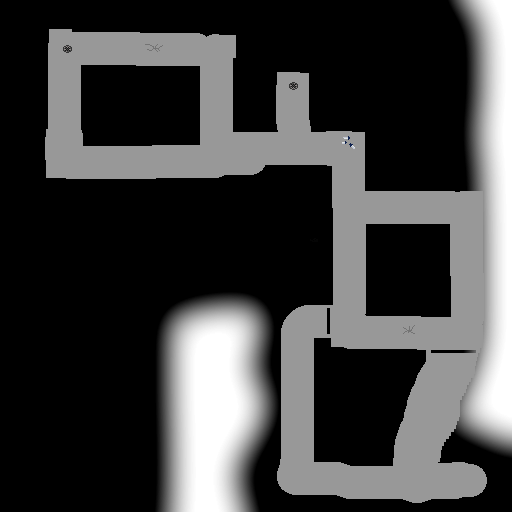
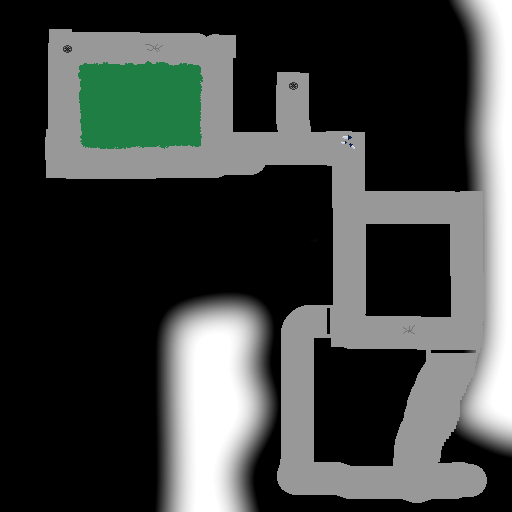
Add: Mouse coord.

Changed region(s): [[0.1562, 0.125, 0.4062, 0.3125]]

diff --git a/www/game.min.js b/www/game.min.js
@@ -1,1 +1,1 @@
-var bgVbo;var bgProgram;var bgMvp;var BG_SIZE=512;function bgInit(){var b=new Float32Array([0,0,0,0,BG_SIZE,0,1,0,0,BG_SIZE,0,1,BG_SIZE,BG_SIZE,1,1,]);bgVbo=gl.createBuffer();gl.bindBuffer(gl.ARRAY_BUFFER,bgVbo);gl.bufferData(gl.ARRAY_BUFFER,b,gl.STATIC_DRAW);bgProgram=new esProgram(gl);bgProgram.addShaderId("bg-fs",ES_FRAGMENT);bgProgram.addShaderId("bg-vs",ES_VERTEX);bgProgram.bindAttribute(0,"pos");bgProgram.link();bgProgram.use();var a=bgProgram.getUniform("mvp");var c=bgProgram.getUniform("tex");bgMvp=esMat4_create();esMat4_ortho(bgMvp,0,512,512,0);gl.uniformMatrix4fv(a,false,bgMvp);gl.uniform1i(c,0)}function bgRender(){bgProgram.use();gl.bindTexture(gl.TEXTURE_2D,texBg);gl.enableVertexAttribArray(0);gl.bindBuffer(gl.ARRAY_BUFFER,bgVbo);gl.vertexAttribPointer(0,4,gl.FLOAT,false,0,0);gl.drawArrays(gl.TRIANGLE_STRIP,0,4);gl.disableVertexAttribArray(0)}var gl;var imgBg;var imgSprites;var imgCsKnife;var imgCsRedWin;var imgCsRedKill;var texBg;var texSprites;var texCsKnife;var texCsRedWin;var texCsRedKill;var frameFunc;var blockMouse;function frameExec(a){if(a>0.3){return}gl.clear(gl.COLOR_BUFFER_BIT);if(frameFunc!=null){frameFunc(a)}spriteFlush()}function makeTexture(b){var a=gl.createTexture();gl.bindTexture(gl.TEXTURE_2D,a);gl.texImage2D(gl.TEXTURE_2D,0,gl.RGBA,gl.RGBA,gl.UNSIGNED_BYTE,b);gl.texParameteri(gl.TEXTURE_2D,gl.TEXTURE_MAG_FILTER,gl.NEAREST);gl.texParameteri(gl.TEXTURE_2D,gl.TEXTURE_MIN_FILTER,gl.NEAREST);assert(a!=null,a);return a}function loaded(){texBg=makeTexture(imgBg);texSprites=makeTexture(imgSprites);texCsKnife=makeTexture(imgCsKnife);texCsRedWin=makeTexture(imgCsRedWin);texCsRedKill=makeTexture(imgCsRedKill);bgInit();spriteInit();nodeInit();aiInit();avatarInit();deathInit();var a=document.getElementById("can");a.addEventListener("mousedown",mouseEvent,false);esNextFrame(frameExec);modePlay()}function main(){frameFunc=null;gl=esInitGl("can");gl.clearColor(0,0,0,1);gl.clear(gl.COLOR_BUFFER_BIT);var a=new esLoad();imgBg=a.loadImage("bg.png");imgSprites=a.loadImage("sprites.png");imgCsKnife=a.loadImage("cs_knife.png");imgCsRedWin=a.loadImage("cs_redwin.png");imgCsRedKill=a.loadImage("cs_redkill.png");a.download(loaded)}function mouseEvent(c){if(blockMouse){return}var a=document.getElementById("can");var b=a.getBoundingClientRect();avatarSetMouse(c.clientX-b.x,c.clientY-b.y)}function modePlay(){blockMouse=false;frameFunc=playFrame}function modeDeath(){blockMouse=true;frameFunc=deathFrame}function assert(a,b){if(!a){alert(b);throw new Error(a,b)}}var avatarWalker;var avatarLastWalkerState;var avatarState;var avatarQueueMouse;var avatarActionX;var avatarActionY;var avatarActionSprite;var avatarAction;var avatarNodeAt;var avatarNodeTravelA;var avatarNodeTravelB;var avatarWeapon;var AV_WAITING=1;var AV_WALKING=2;var WE_NONE=0;var WE_KNIFE=1;var WE_TEXT=["no weapon","knife"];function avatarInit(a){avatarWalker=new NodeWalker(nodePlayerStart,35);avatarLastWalkerState=-1;avatarWeapon=WE_NONE}function avatarFrame(a){if(avatarQueueMouse){avatarMouse()}avatarWalker.frame(a);if(avatarLastWalkerState!=avatarWalker.state){avatarLastWalkerState=avatarWalker.state;avatarUpdateState()}if(!avatarWalker.hidden){if(avatarAction){spriteAdd(avatarActionX,avatarActionY,32,SP_TABLET);spriteAdd(avatarActionX,avatarActionY,32,avatarActionSprite);switch(avatarAction){case ACTION_HIDE_ATTACK:break;default:case ACTION_TELEPORT:spriteAdd(avatarWalker.x,avatarWalker.y,32,SP_PLAYER_SNEAK);break;case ACTION_PICK_KNIFE:spriteAdd(avatarWalker.x,avatarWalker.y,32,SP_PLAYER_IDLE);break}}else{if(avatarState==AV_WALKING){spriteAdd(avatarWalker.x,avatarWalker.y,32,spriteFrame(SP_PLAYER,avatarWalker))}else{if(avatarState==AV_WAITING){spriteAdd(avatarWalker.x,avatarWalker.y,32,SP_PLAYER_IDLE)}}}}spriteAddText(12,500,16,WE_TEXT[avatarWeapon])}function avatarSetMouse(a,b){avatarQueueMouse=[a,b];avatarMouse()}function avatarMouse(){if(avatarState==AV_WAITING){var a=avatarQueueMouse[0];var d=avatarQueueMouse[1];avatarQueueMouse=null;if(avatarAction!=ACTION_NONE&&avatarOnAction(a,d)){switch(avatarAction){case ACTION_PICK_KNIFE:avatarWeapon=WE_KNIFE;break;case ACTION_HIDE_ATTACK:var c=avatarWalker.from.rebase;var b=aiAttack(c.x,c.y,avatarWeapon);avatarWalker.goAction(avatarAction,b);break;default:avatarWalker.goAction(avatarAction)}}else{avatarDirMove(a,d)}}}function avatarUpdateActions(a){avatarAction=a;avatarActionX=avatarWalker.x;avatarActionY=avatarWalker.y+40;switch(a){case ACTION_HIDE:avatarActionSprite=SP_ICON_HIDE;break;case ACTION_HIDE_ATTACK:avatarActionSprite=SP_ICON_HIDE_ATTACK;break;case ACTION_TELEPORT:avatarActionSprite=SP_ICON_TELEPORT;break;case ACTION_PICK_KNIFE:avatarActionSprite=SP_ICON_KNIFE;break}}function avatarUpdateState(){switch(avatarWalker.state){case NW_IDLE:avatarWalker.from.occupied=true;avatarState=AV_WAITING;avatarNodeAt=avatarWalker.from;avatarNodeTravelA=avatarNodeTravelB=null;if(avatarQueueMouse!=null){avatarMouse()}avatarUpdateActions(avatarWalker.from.action);break;case NW_WALKING:avatarWalker.from.occupied=false;avatarState=AV_WALKING;avatarNodeAt=null;avatarNodeTravelA=avatarWalker.from;avatarNodeTravelB=avatarWalker.dest;avatarUpdateActions(0);break}}function avatarDirMove(a,f){var c=avatarWalker.x-a;var b=avatarWalker.y-f;var e=Math.abs(c);var d=Math.abs(b);if(e<16&&d<16){return}if(e>=d){if(c>0){avatarWalker.goEast()}else{avatarWalker.goWest()}}else{if(b>0){avatarWalker.goNorth()}else{avatarWalker.goSouth()}}}function avatarOnAction(a,d){var c=Math.abs(a-avatarActionX);var b=Math.abs(d-avatarActionY);return c<16&&b<16}var aiList;var aiWave=0;var AI_RAND=16;var CAUGHT_RAD=16;var AIMSG_RED_WIN;var AIMSG_RED_LOSE;function aiInit(){AIMSG_RED_WIN=[texCsRedWin,"you got caught",null];AIMSG_RED_LOSE=[texCsRedKill,"take that",null];aiWave=0;aiRespawnWave()}function aiFrame(b){for(var a=0;a<aiList.length;a++){aiList[a].frame(b)}}function aiRespawnWave(){aiList=[];switch(aiWave){case 0:spawnRed();spawnRed();spawnRed();break}}function spawnRed(){aiList.push(new Ai(nodeAiStart0,SP_AI_RED,AIMSG_RED_WIN,AIMSG_RED_LOSE,WE_KNIFE))}function aiAttack(a,d,c){for(var b=0;b<aiList.length;b++){if(aiList[b].caught(a,d)){switch(c){default:case WE_NONE:break;case WE_KNIFE:deathQueue(texCsKnife,"thrust",1,null);break}if(aiList[b].voln==c){deathQueue(aiList[b].killMsg[0],aiList[b].killMsg[1],1,aiList[b].killMsg[2]);aiList.splice(b,1);modeDeath();return true}else{aiList[b].attack=true;aiList[b].speed=aiList[b].orgSpeed*3}}}return false}function Ai(d,e,c,b,a){this.attack=false;this.voln=a;this.orgSpeed=20+Math.random()*15;this.walker=new NodeWalker(d,this.orgSpeed);this.offsetX=(Math.random()-0.5)*AI_RAND;this.offsetY=(Math.random()-0.5)*AI_RAND;this.walker.goRandom();this.spriteBase=e;this.winMsg=c;this.killMsg=b}Ai.prototype.frame=function(d){if(this.walker.state==NW_IDLE){this.planTravel()}this.walker.frame(d);var b=this.walker.animation+this.walker.animationBase;var a=[this.spriteBase[0]+b,this.spriteBase[1]];var c=this.walker.animation;spriteAdd(Math.floor(this.walker.x+this.offsetX),Math.floor(this.walker.y+this.offsetY)+c,24,a);if(this.attack&&this.caughtPlayer()){deathQueue(this.winMsg[0],this.winMsg[1],3,this.winMsg[2]);modeDeath();deathReborn()}};Ai.prototype.planTravel=function(){if(this.isSeePlayer()){this.walker.speed=this.orgSpeed*2;this.attack=true;var a=avatarNodeAt;if(a==null){a=avatarNodeTravelB}this.walker.travel(a)}else{this.walker.speed=this.orgSpeed;this.attack=false;this.walker.goRandom()}};Ai.prototype.caught=function(a,d){var c=Math.abs(this.walker.x-a);var b=Math.abs(this.walker.y-d);return c<CAUGHT_RAD&&b<CAUGHT_RAD};Ai.prototype.caughtPlayer=function(){if(avatarWalker.hidden){return false}return this.caught(avatarWalker.x,avatarWalker.y)};Ai.prototype.isSeePlayer=function(){if(this.walker.from.equals(avatarNodeAt)){return true}if(isAvatarTravel(this.walker.from,this.walker.from.west)){return true}if(isAvatarTravel(this.walker.from,this.walker.from.east)){return true}if(isAvatarTravel(this.walker.from,this.walker.from.north)){return true}if(isAvatarTravel(this.walker.from,this.walker.from.south)){return true}return false};function isAvatarTravel(d,c){if(c==null){return false}if(d.equals(avatarNodeTravelA)&&c.equals(avatarNodeTravelB)){return true}if(d.equals(avatarNodeTravelB)&&c.equals(avatarNodeTravelA)){return true}if(avatarNodeAt!=null&&avatarNodeAt.equals(c)){return true}return false}var spriteList;var spriteCount;var spriteVbo;var spriteProgram;var SPRITE_MAX=100;var SPRITE_COMPS=5;var SPRITE_COMPS_SIZE=SPRITE_COMPS*4;var SPRITE_DIM=16;var SP_NODE=[0,0];var SP_CROSS=[1,0];var SP_BOX_FREE=[1,0];var SP_BOX_TAKEN=[2,0];var SP_PLAYER_IDLE=[8,1];var SP_PLAYER_SNEAK=[9,1];var SP_TABLET=[3,0];var SP_ICON_HIDE=[4,0];var SP_ICON_HIDE_ATTACK=[5,0];var SP_ICON_TELEPORT=[6,0];var SP_ICON_KNIFE=[7,0];var SP_PLAYER=[0,1];var SP_AI_RED=[0,2];function spriteInit(){spriteCount=0;spriteList=new Float32Array(SPRITE_MAX*SPRITE_COMPS);spriteList[0]=0.5;spriteVbo=gl.createBuffer();gl.bindBuffer(gl.ARRAY_BUFFER,spriteVbo);gl.bufferData(gl.ARRAY_BUFFER,spriteList,gl.DYNAMIC_DRAW);spriteProgram=new esProgram(gl);spriteProgram.addShaderId("sprite-fs",ES_FRAGMENT);spriteProgram.addShaderId("sprite-vs",ES_VERTEX);spriteProgram.bindAttribute(0,"pos");spriteProgram.bindAttribute(1,"uv");spriteProgram.bindAttribute(2,"size");spriteProgram.link();spriteProgram.use();var b=spriteProgram.getUniform("tex");var a=spriteProgram.getUniform("mvp");gl.uniform1i(b,0);gl.uniformMatrix4fv(a,false,bgMvp)}function spriteAdd(a,e,c,b){if(spriteCount>=SPRITE_MAX){return}var d=SPRITE_COMPS*spriteCount;spriteList[d+0]=a;spriteList[d+1]=e;spriteList[d+2]=b[0];spriteList[d+3]=b[1];spriteList[d+4]=c;spriteCount++}function spriteAddText(g,f,j,h){var e="a".charCodeAt(0);var d="q".charCodeAt(0);for(var c=0;c<h.length;c++){var b=h.charCodeAt(c);var a=b-e;if(a>=0&&a<16){spriteAdd(g,f,j,[a,14])}var a=b-d;if(a>=0&&a<16){spriteAdd(g,f,j,[a,15])}g+=j}}function spriteFlush(){if(spriteCount<=0){return}gl.bindBuffer(gl.ARRAY_BUFFER,spriteVbo);gl.bufferSubData(gl.ARRAY_BUFFER,0,spriteList.subarray(0,spriteCount*SPRITE_COMPS));spriteProgram.use();gl.bindTexture(gl.TEXTURE_2D,texSprites);gl.enableVertexAttribArray(0);gl.enableVertexAttribArray(1);gl.enableVertexAttribArray(2);gl.vertexAttribPointer(0,2,gl.FLOAT,false,SPRITE_COMPS_SIZE,0);gl.vertexAttribPointer(1,2,gl.FLOAT,false,SPRITE_COMPS_SIZE,8);gl.vertexAttribPointer(2,1,gl.FLOAT,false,SPRITE_COMPS_SIZE,16);gl.drawArrays(gl.POINTS,0,spriteCount);gl.disableVertexAttribArray(0);gl.disableVertexAttribArray(1);gl.disableVertexAttribArray(2);spriteCount=0}function spriteFrame(b,c){var a=b[0]+c.animationBase+c.animation;return[a,b[1]]}var nodeList;var NW_IDLE=0;var NW_WALKING=1;var ACTION_NONE=0;var ACTION_HIDE=1;var ACTION_HIDE_ATTACK=2;var ACTION_TELEPORT=3;var ACTION_PICK_KNIFE=4;var nodeAiStart0;var nodePlayerStart;function nodeInit(){nodeList=[];var d=packNode(67,49,ACTION_TELEPORT);var c=packNode(215,53);var b=packNode(62,161);var a=packNode(218,153);var i=packNode(153,48,ACTION_HIDE);var g=packNode(153,31,ACTION_HIDE_ATTACK);var o=packNode(293,148);var n=packNode(346,150,ACTION_PICK_KNIFE);var m=packNode(293,86,ACTION_TELEPORT);var l=packNode(350,207);var k=packNode(465,210);var j=packNode(347,324);var f=packNode(408,330,ACTION_HIDE);var e=packNode(404,314,ACTION_HIDE_ATTACK);var h=packNode(462,331);d.linkWest(i);i.linkWest(c);i.linkHide(g);d.linkSouth(b);b.linkWest(a);c.linkSouth(a);a.linkWest(o);m.linkSouth(o);o.linkWest(n);n.linkSouth(l);l.linkWest(k);l.linkSouth(j);j.linkWest(f);f.linkHide(e);f.linkWest(h);k.linkSouth(h);m.linkTeleport(d);d.linkTeleport(m);nodeAiStart0=c;nodePlayerStart=k}function nodeRender(){for(var a=0;a<nodeList.length;a++){nodeList[a].render()}}function packNode(a,d,c){var b=new Node(a,d,!c?0:c);nodeList.push(b);return b}function NodeWalker(b,a){this.speed=a;this.x=b.x;this.y=b.y;this.from=b;this.dest=null;this.last=null;this.state=NW_IDLE;this.travelDist=0;this.travelDirX=0;this.travelDirY=0;this.travelSpeed=0;this.hidden=false;this.animationBase=0;this.animation=0}NodeWalker.prototype.frame=function(a){switch(this.state){case NW_WALKING:this.travelDist-=a*this.travelSpeed;this.x+=this.travelDirX*a*this.travelSpeed;this.y+=this.travelDirY*a*this.travelSpeed;this.animation=((Math.floor(this.travelDist)>>4)&1);if(this.travelDist<=0){this.x=this.dest.x;this.y=this.dest.y;this.state=NW_IDLE;this.travelDist=0;this.from=this.dest;this.dest=null;this.hidden=false}break}};NodeWalker.prototype.travel=function(f,e){var b=this.from.x-f.x;var a=this.from.y-f.y;var d=Math.abs(b);var c=Math.abs(a);if(d>c){if(b>0){this.animationBase=0}else{this.animationBase=2}}else{if(a>0){this.animationBase=6}else{this.animationBase=4}}this.dest=f;this.state=NW_WALKING;this.last=this.from;var b=f.x-this.from.x;var a=f.y-this.from.y;this.travelDist=Math.sqrt(b*b+a*a);this.travelDirX=b/this.travelDist;this.travelDirY=a/this.travelDist;this.travelSpeed=this.speed;if(e>0){this.travelSpeed*=e}};function shouldGo(c,a,b){if(a!=null&&(c.last==null||!a.equals(c.last))){b.push(a)}}Node.prototype.equals=function(a){if(a==null||this==null){return false}return this.x==a.x&&this.y==a.y};NodeWalker.prototype.goRandom=function(){var a=[];shouldGo(this,this.from.west,a);shouldGo(this,this.from.east,a);shouldGo(this,this.from.south,a);shouldGo(this,this.from.north,a);if(a.length<=0){if(this.from.west!=null){a.push(this.from.west)}if(this.from.east!=null){a.push(this.from.east)}if(this.from.south!=null){a.push(this.from.south)}if(this.from.north!=null){a.push(this.from.north)}}this.travel(a[Math.floor(Math.random()*a.length)])};function goConditional(b,a){if(a!=null){b.travel(a)}else{if(b.from.rebase!=null){b.travel(b.from.rebase)}}}NodeWalker.prototype.goWest=function(){goConditional(this,this.from.west)};NodeWalker.prototype.goEast=function(){goConditional(this,this.from.east)};NodeWalker.prototype.goSouth=function(){goConditional(this,this.from.south)};NodeWalker.prototype.goNorth=function(){goConditional(this,this.from.north)};NodeWalker.prototype.goAction=function(b,a){switch(b){case ACTION_HIDE:this.hidden=a==true;this.travel(this.from.hide,this.hidden?5:1);break;case ACTION_TELEPORT:this.hidden=true;this.travel(this.from.teleport,5);break;default:this.hidden=false||a==true;this.travel(this.from.rebase);break}};function Node(a,c,b){this.x=a;this.y=c;this.action=b;this.occupied=false;this.east=this.west=this.north=this.south=null;this.rebase=this.hide=this.teleport=null}Node.prototype.renderSprite=function(a){spriteAdd(this.x,this.y,32,a)};Node.prototype.render=function(){switch(this.action){case ACTION_HIDE_ATTACK:this.renderSprite(this.occupied?SP_BOX_TAKEN:SP_BOX_FREE);break;default:}};Node.prototype.linkWest=function(a){this.west=a;a.east=this};Node.prototype.linkSouth=function(a){this.south=a;a.north=this};Node.prototype.linkHide=function(a){this.hide=a;a.rebase=this};Node.prototype.linkTeleport=function(a){this.teleport=a};var deathQ;var deathTexture;var deathText;var deathDuration;var deathProgram;var deathVbo;var deathUniTex;function deathInit(){deathQ=[];deathDuration=0;var a=new Float32Array([0,0,0,1,1,0,1,1,0,1,0,0,1,1,1,0]);deathVbo=gl.createBuffer();gl.bindBuffer(gl.ARRAY_BUFFER,deathVbo);gl.bufferData(gl.ARRAY_BUFFER,a,gl.STATIC_DRAW);deathProgram=new esProgram(gl);deathProgram.addShaderId("death-fs",ES_FRAGMENT);deathProgram.addShaderId("death-vs",ES_VERTEX);deathProgram.bindAttribute(0,"pos");deathProgram.link();deathProgram.use();deathUniTex=deathProgram.getUniform("tex");gl.uniform1i(deathUniTex,0)}function deathReborn(){avatarInit(nodePlayerStart);aiRespawnWave()}function deathQueue(a,d,c,b){deathQ.push([a,d,c])}function deathFrame(d){if(deathDuration<=0){if(deathQ.length<=0){modePlay()}else{var a=deathQ.shift();deathTexture=a[0];deathText=a[1];deathDuration=a[2];var c=a[3]}}deathProgram.use();gl.bindTexture(gl.TEXTURE_2D,deathTexture);gl.enableVertexAttribArray(0);gl.bindBuffer(gl.ARRAY_BUFFER,deathVbo);gl.vertexAttribPointer(0,4,gl.FLOAT,false,0,0);gl.drawArrays(gl.TRIANGLE_STRIP,0,4);gl.disableVertexAttribArray(0);var b=256-((deathText.length/2)-0.5)*32;spriteAddText(b,400,32,deathText);deathDuration-=d}function playFrame(a){bgRender();nodeRender();avatarFrame(a);aiFrame(a)};
+var bgVbo;var bgProgram;var bgMvp;var BG_SIZE=512;function bgInit(){var b=new Float32Array([0,0,0,0,BG_SIZE,0,1,0,0,BG_SIZE,0,1,BG_SIZE,BG_SIZE,1,1,]);bgVbo=gl.createBuffer();gl.bindBuffer(gl.ARRAY_BUFFER,bgVbo);gl.bufferData(gl.ARRAY_BUFFER,b,gl.STATIC_DRAW);bgProgram=new esProgram(gl);bgProgram.addShaderId("bg-fs",ES_FRAGMENT);bgProgram.addShaderId("bg-vs",ES_VERTEX);bgProgram.bindAttribute(0,"pos");bgProgram.link();bgProgram.use();var a=bgProgram.getUniform("mvp");var c=bgProgram.getUniform("tex");bgMvp=esMat4_create();esMat4_ortho(bgMvp,0,512,512,0);gl.uniformMatrix4fv(a,false,bgMvp);gl.uniform1i(c,0)}function bgRenderPre(){bgProgram.use();gl.bindTexture(gl.TEXTURE_2D,texBg);gl.enableVertexAttribArray(0);gl.bindBuffer(gl.ARRAY_BUFFER,bgVbo);gl.vertexAttribPointer(0,4,gl.FLOAT,false,0,0);gl.drawArrays(gl.TRIANGLE_STRIP,0,4);gl.disableVertexAttribArray(0)}function bgRenderPost(){spriteAdd(95,63,32,SP_BRUSH0);spriteAdd(130,69,32,SP_BRUSH0)}var gl;var imgBg;var imgSprites;var imgCsKnife;var imgCsRedWin;var imgCsRedKill;var texBg;var texSprites;var texCsKnife;var texCsRedWin;var texCsRedKill;var frameFunc;var blockMouse;function frameExec(a){if(a>0.3){return}gl.clear(gl.COLOR_BUFFER_BIT);if(frameFunc!=null){frameFunc(a)}spriteFlush()}function makeTexture(b){var a=gl.createTexture();gl.bindTexture(gl.TEXTURE_2D,a);gl.texImage2D(gl.TEXTURE_2D,0,gl.RGBA,gl.RGBA,gl.UNSIGNED_BYTE,b);gl.texParameteri(gl.TEXTURE_2D,gl.TEXTURE_MAG_FILTER,gl.NEAREST);gl.texParameteri(gl.TEXTURE_2D,gl.TEXTURE_MIN_FILTER,gl.NEAREST);assert(a!=null,a);return a}function loaded(){texBg=makeTexture(imgBg);texSprites=makeTexture(imgSprites);texCsKnife=makeTexture(imgCsKnife);texCsRedWin=makeTexture(imgCsRedWin);texCsRedKill=makeTexture(imgCsRedKill);bgInit();spriteInit();nodeInit();aiInit();avatarInit();deathInit();var a=document.getElementById("can");a.addEventListener("mousedown",mouseEvent,false);esNextFrame(frameExec);modePlay()}function main(){frameFunc=null;gl=esInitGl("can");gl.clearColor(0,0,0,1);gl.clear(gl.COLOR_BUFFER_BIT);var a=new esLoad();imgBg=a.loadImage("bg.png");imgSprites=a.loadImage("sprites.png");imgCsKnife=a.loadImage("cs_knife.png");imgCsRedWin=a.loadImage("cs_redwin.png");imgCsRedKill=a.loadImage("cs_redkill.png");a.download(loaded)}function mouseEvent(d){if(blockMouse){return}var b=document.getElementById("can");var c=b.getBoundingClientRect();var a=d.clientX-c.x;var e=d.clientY-c.y;console.log(d,c,a,e);avatarSetMouse(a,e)}function modePlay(){blockMouse=false;frameFunc=playFrame}function modeDeath(){blockMouse=true;frameFunc=deathFrame}function assert(a,b){if(!a){alert(b);throw new Error(a,b)}}var avatarWalker;var avatarLastWalkerState;var avatarState;var avatarQueueMouse;var avatarActionX;var avatarActionY;var avatarActionSprite;var avatarAction;var avatarNodeAt;var avatarNodeTravelA;var avatarNodeTravelB;var avatarWeapon;var AV_WAITING=1;var AV_WALKING=2;var WE_NONE=0;var WE_KNIFE=1;var WE_TEXT=["no weapon","knife"];function avatarInit(a){avatarWalker=new NodeWalker(nodePlayerStart,35);avatarLastWalkerState=-1;avatarWeapon=WE_NONE}function avatarFrame(a){if(avatarQueueMouse){avatarMouse()}avatarWalker.frame(a);if(avatarLastWalkerState!=avatarWalker.state){avatarLastWalkerState=avatarWalker.state;avatarUpdateState()}if(!avatarWalker.hidden){if(avatarAction){spriteAdd(avatarActionX,avatarActionY,32,SP_TABLET);spriteAdd(avatarActionX,avatarActionY,32,avatarActionSprite);switch(avatarAction){case ACTION_HIDE_ATTACK:break;default:case ACTION_TELEPORT:spriteAdd(avatarWalker.x,avatarWalker.y,32,SP_PLAYER_SNEAK);break;case ACTION_PICK_KNIFE:spriteAdd(avatarWalker.x,avatarWalker.y,32,SP_PLAYER_IDLE);break}}else{if(avatarState==AV_WALKING){spriteAdd(avatarWalker.x,avatarWalker.y,32,spriteFrame(SP_PLAYER,avatarWalker))}else{if(avatarState==AV_WAITING){spriteAdd(avatarWalker.x,avatarWalker.y,32,SP_PLAYER_IDLE)}}}}spriteAddText(12,500,16,WE_TEXT[avatarWeapon])}function avatarSetMouse(a,b){avatarQueueMouse=[a,b];avatarMouse()}function avatarMouse(){if(avatarState==AV_WAITING){var a=avatarQueueMouse[0];var d=avatarQueueMouse[1];avatarQueueMouse=null;if(avatarAction!=ACTION_NONE&&avatarOnAction(a,d)){switch(avatarAction){case ACTION_PICK_KNIFE:avatarWeapon=WE_KNIFE;break;case ACTION_HIDE_ATTACK:var c=avatarWalker.from.rebase;var b=aiAttack(c.x,c.y,avatarWeapon);avatarWalker.goAction(avatarAction,b);break;default:avatarWalker.goAction(avatarAction)}}else{avatarDirMove(a,d)}}}function avatarUpdateActions(a){avatarAction=a;avatarActionX=avatarWalker.x;avatarActionY=avatarWalker.y+40;switch(a){case ACTION_HIDE:avatarActionSprite=SP_ICON_HIDE;break;case ACTION_HIDE_ATTACK:avatarActionSprite=SP_ICON_HIDE_ATTACK;break;case ACTION_TELEPORT:avatarActionSprite=SP_ICON_TELEPORT;break;case ACTION_PICK_KNIFE:avatarActionSprite=SP_ICON_KNIFE;break}}function avatarUpdateState(){switch(avatarWalker.state){case NW_IDLE:avatarWalker.from.occupied=true;avatarState=AV_WAITING;avatarNodeAt=avatarWalker.from;avatarNodeTravelA=avatarNodeTravelB=null;if(avatarQueueMouse!=null){avatarMouse()}avatarUpdateActions(avatarWalker.from.action);break;case NW_WALKING:avatarWalker.from.occupied=false;avatarState=AV_WALKING;avatarNodeAt=null;avatarNodeTravelA=avatarWalker.from;avatarNodeTravelB=avatarWalker.dest;avatarUpdateActions(0);break}}function avatarDirMove(a,f){var c=avatarWalker.x-a;var b=avatarWalker.y-f;var e=Math.abs(c);var d=Math.abs(b);if(e<16&&d<16){return}if(e>=d){if(c>0){avatarWalker.goEast()}else{avatarWalker.goWest()}}else{if(b>0){avatarWalker.goNorth()}else{avatarWalker.goSouth()}}}function avatarOnAction(a,d){var c=Math.abs(a-avatarActionX);var b=Math.abs(d-avatarActionY);return c<16&&b<16}var aiList;var aiWave=0;var AI_RAND=16;var CAUGHT_RAD=16;var AIMSG_RED_WIN;var AIMSG_RED_LOSE;function aiInit(){AIMSG_RED_WIN=[texCsRedWin,"you got caught",null];AIMSG_RED_LOSE=[texCsRedKill,"take that",null];aiWave=0;aiRespawnWave()}function aiFrame(b){for(var a=0;a<aiList.length;a++){aiList[a].frame(b)}}function aiRespawnWave(){aiList=[];switch(aiWave){case 0:spawnRed();spawnRed();spawnRed();break}}function spawnRed(){aiList.push(new Ai(nodeAiStart0,SP_AI_RED,AIMSG_RED_WIN,AIMSG_RED_LOSE,WE_KNIFE))}function aiAttack(a,d,c){for(var b=0;b<aiList.length;b++){if(aiList[b].caught(a,d)){switch(c){default:case WE_NONE:break;case WE_KNIFE:deathQueue(texCsKnife,"thrust",1,null);break}if(aiList[b].voln==c){deathQueue(aiList[b].killMsg[0],aiList[b].killMsg[1],1,aiList[b].killMsg[2]);aiList.splice(b,1);modeDeath();return true}else{aiList[b].attack=true;aiList[b].speed=aiList[b].orgSpeed*3}}}return false}function Ai(d,e,c,b,a){this.attack=false;this.voln=a;this.orgSpeed=20+Math.random()*15;this.walker=new NodeWalker(d,this.orgSpeed);this.offsetX=(Math.random()-0.5)*AI_RAND;this.offsetY=(Math.random()-0.5)*AI_RAND;this.walker.goRandom();this.spriteBase=e;this.winMsg=c;this.killMsg=b}Ai.prototype.frame=function(d){if(this.walker.state==NW_IDLE){this.planTravel()}this.walker.frame(d);var b=this.walker.animation+this.walker.animationBase;var a=[this.spriteBase[0]+b,this.spriteBase[1]];var c=this.walker.animation;spriteAdd(Math.floor(this.walker.x+this.offsetX),Math.floor(this.walker.y+this.offsetY)+c,24,a);if(this.attack&&this.caughtPlayer()){deathQueue(this.winMsg[0],this.winMsg[1],3,this.winMsg[2]);modeDeath();deathReborn()}};Ai.prototype.planTravel=function(){if(this.isSeePlayer()){this.walker.speed=this.orgSpeed*2;this.attack=true;var a=avatarNodeAt;if(a==null){a=avatarNodeTravelB}this.walker.travel(a)}else{this.walker.speed=this.orgSpeed;this.attack=false;this.walker.goRandom()}};Ai.prototype.caught=function(a,d){var c=Math.abs(this.walker.x-a);var b=Math.abs(this.walker.y-d);return c<CAUGHT_RAD&&b<CAUGHT_RAD};Ai.prototype.caughtPlayer=function(){if(avatarWalker.hidden){return false}return this.caught(avatarWalker.x,avatarWalker.y)};Ai.prototype.isSeePlayer=function(){if(this.walker.from.equals(avatarNodeAt)){return true}if(isAvatarTravel(this.walker.from,this.walker.from.west)){return true}if(isAvatarTravel(this.walker.from,this.walker.from.east)){return true}if(isAvatarTravel(this.walker.from,this.walker.from.north)){return true}if(isAvatarTravel(this.walker.from,this.walker.from.south)){return true}return false};function isAvatarTravel(d,c){if(c==null){return false}if(d.equals(avatarNodeTravelA)&&c.equals(avatarNodeTravelB)){return true}if(d.equals(avatarNodeTravelB)&&c.equals(avatarNodeTravelA)){return true}if(avatarNodeAt!=null&&avatarNodeAt.equals(c)){return true}return false}var spriteList;var spriteCount;var spriteVbo;var spriteProgram;var SPRITE_MAX=100;var SPRITE_COMPS=5;var SPRITE_COMPS_SIZE=SPRITE_COMPS*4;var SPRITE_DIM=16;var SP_NODE=[0,0];var SP_CROSS=[1,0];var SP_BOX_FREE=[1,0];var SP_BOX_TAKEN=[2,0];var SP_PLAYER_IDLE=[8,1];var SP_PLAYER_SNEAK=[9,1];var SP_TABLET=[3,0];var SP_ICON_HIDE=[4,0];var SP_ICON_HIDE_ATTACK=[5,0];var SP_ICON_TELEPORT=[6,0];var SP_ICON_KNIFE=[7,0];var SP_BRUSH0=[0,11];var SP_PLAYER=[0,1];var SP_AI_RED=[0,2];function spriteInit(){spriteCount=0;spriteList=new Float32Array(SPRITE_MAX*SPRITE_COMPS);spriteList[0]=0.5;spriteVbo=gl.createBuffer();gl.bindBuffer(gl.ARRAY_BUFFER,spriteVbo);gl.bufferData(gl.ARRAY_BUFFER,spriteList,gl.DYNAMIC_DRAW);spriteProgram=new esProgram(gl);spriteProgram.addShaderId("sprite-fs",ES_FRAGMENT);spriteProgram.addShaderId("sprite-vs",ES_VERTEX);spriteProgram.bindAttribute(0,"pos");spriteProgram.bindAttribute(1,"uv");spriteProgram.bindAttribute(2,"size");spriteProgram.link();spriteProgram.use();var b=spriteProgram.getUniform("tex");var a=spriteProgram.getUniform("mvp");gl.uniform1i(b,0);gl.uniformMatrix4fv(a,false,bgMvp)}function spriteAdd(a,e,c,b){if(spriteCount>=SPRITE_MAX){return}var d=SPRITE_COMPS*spriteCount;spriteList[d+0]=a;spriteList[d+1]=e;spriteList[d+2]=b[0];spriteList[d+3]=b[1];spriteList[d+4]=c;spriteCount++}function spriteAddText(g,f,j,h){var e="a".charCodeAt(0);var d="q".charCodeAt(0);for(var c=0;c<h.length;c++){var b=h.charCodeAt(c);var a=b-e;if(a>=0&&a<16){spriteAdd(g,f,j,[a,14])}var a=b-d;if(a>=0&&a<16){spriteAdd(g,f,j,[a,15])}g+=j}}function spriteFlush(){if(spriteCount<=0){return}gl.bindBuffer(gl.ARRAY_BUFFER,spriteVbo);gl.bufferSubData(gl.ARRAY_BUFFER,0,spriteList.subarray(0,spriteCount*SPRITE_COMPS));spriteProgram.use();gl.bindTexture(gl.TEXTURE_2D,texSprites);gl.enableVertexAttribArray(0);gl.enableVertexAttribArray(1);gl.enableVertexAttribArray(2);gl.vertexAttribPointer(0,2,gl.FLOAT,false,SPRITE_COMPS_SIZE,0);gl.vertexAttribPointer(1,2,gl.FLOAT,false,SPRITE_COMPS_SIZE,8);gl.vertexAttribPointer(2,1,gl.FLOAT,false,SPRITE_COMPS_SIZE,16);gl.drawArrays(gl.POINTS,0,spriteCount);gl.disableVertexAttribArray(0);gl.disableVertexAttribArray(1);gl.disableVertexAttribArray(2);spriteCount=0}function spriteFrame(b,c){var a=b[0]+c.animationBase+c.animation;return[a,b[1]]}var nodeList;var NW_IDLE=0;var NW_WALKING=1;var ACTION_NONE=0;var ACTION_HIDE=1;var ACTION_HIDE_ATTACK=2;var ACTION_TELEPORT=3;var ACTION_PICK_KNIFE=4;var nodeAiStart0;var nodePlayerStart;function nodeInit(){nodeList=[];var d=packNode(67,49,ACTION_TELEPORT);var c=packNode(215,53);var b=packNode(62,161);var a=packNode(218,153);var i=packNode(153,48,ACTION_HIDE);var g=packNode(153,31,ACTION_HIDE_ATTACK);var o=packNode(293,148);var n=packNode(346,150,ACTION_PICK_KNIFE);var m=packNode(293,86,ACTION_TELEPORT);var l=packNode(350,207);var k=packNode(465,210);var j=packNode(347,324);var f=packNode(408,330,ACTION_HIDE);var e=packNode(404,314,ACTION_HIDE_ATTACK);var h=packNode(462,331);d.linkWest(i);i.linkWest(c);i.linkHide(g);d.linkSouth(b);b.linkWest(a);c.linkSouth(a);a.linkWest(o);m.linkSouth(o);o.linkWest(n);n.linkSouth(l);l.linkWest(k);l.linkSouth(j);j.linkWest(f);f.linkHide(e);f.linkWest(h);k.linkSouth(h);m.linkTeleport(d);d.linkTeleport(m);nodeAiStart0=c;nodePlayerStart=k}function nodeRender(){for(var a=0;a<nodeList.length;a++){nodeList[a].render()}}function packNode(a,d,c){var b=new Node(a,d,!c?0:c);nodeList.push(b);return b}function NodeWalker(b,a){this.speed=a;this.x=b.x;this.y=b.y;this.from=b;this.dest=null;this.last=null;this.state=NW_IDLE;this.travelDist=0;this.travelDirX=0;this.travelDirY=0;this.travelSpeed=0;this.hidden=false;this.animationBase=0;this.animation=0}NodeWalker.prototype.frame=function(a){switch(this.state){case NW_WALKING:this.travelDist-=a*this.travelSpeed;this.x+=this.travelDirX*a*this.travelSpeed;this.y+=this.travelDirY*a*this.travelSpeed;this.animation=((Math.floor(this.travelDist)>>4)&1);if(this.travelDist<=0){this.x=this.dest.x;this.y=this.dest.y;this.state=NW_IDLE;this.travelDist=0;this.from=this.dest;this.dest=null;this.hidden=false}break}};NodeWalker.prototype.travel=function(f,e){var b=this.from.x-f.x;var a=this.from.y-f.y;var d=Math.abs(b);var c=Math.abs(a);if(d>c){if(b>0){this.animationBase=0}else{this.animationBase=2}}else{if(a>0){this.animationBase=6}else{this.animationBase=4}}this.dest=f;this.state=NW_WALKING;this.last=this.from;var b=f.x-this.from.x;var a=f.y-this.from.y;this.travelDist=Math.sqrt(b*b+a*a);this.travelDirX=b/this.travelDist;this.travelDirY=a/this.travelDist;this.travelSpeed=this.speed;if(e>0){this.travelSpeed*=e}};function shouldGo(c,a,b){if(a!=null&&(c.last==null||!a.equals(c.last))){b.push(a)}}Node.prototype.equals=function(a){if(a==null||this==null){return false}return this.x==a.x&&this.y==a.y};NodeWalker.prototype.goRandom=function(){var a=[];shouldGo(this,this.from.west,a);shouldGo(this,this.from.east,a);shouldGo(this,this.from.south,a);shouldGo(this,this.from.north,a);if(a.length<=0){if(this.from.west!=null){a.push(this.from.west)}if(this.from.east!=null){a.push(this.from.east)}if(this.from.south!=null){a.push(this.from.south)}if(this.from.north!=null){a.push(this.from.north)}}this.travel(a[Math.floor(Math.random()*a.length)])};function goConditional(b,a){if(a!=null){b.travel(a)}else{if(b.from.rebase!=null){b.travel(b.from.rebase)}}}NodeWalker.prototype.goWest=function(){goConditional(this,this.from.west)};NodeWalker.prototype.goEast=function(){goConditional(this,this.from.east)};NodeWalker.prototype.goSouth=function(){goConditional(this,this.from.south)};NodeWalker.prototype.goNorth=function(){goConditional(this,this.from.north)};NodeWalker.prototype.goAction=function(b,a){switch(b){case ACTION_HIDE:this.hidden=a==true;this.travel(this.from.hide,this.hidden?5:1);break;case ACTION_TELEPORT:this.hidden=true;this.travel(this.from.teleport,5);break;default:this.hidden=false||a==true;this.travel(this.from.rebase);break}};function Node(a,c,b){this.x=a;this.y=c;this.action=b;this.occupied=false;this.east=this.west=this.north=this.south=null;this.rebase=this.hide=this.teleport=null}Node.prototype.renderSprite=function(a){spriteAdd(this.x,this.y,32,a)};Node.prototype.render=function(){switch(this.action){case ACTION_HIDE_ATTACK:this.renderSprite(this.occupied?SP_BOX_TAKEN:SP_BOX_FREE);break;default:}};Node.prototype.linkWest=function(a){this.west=a;a.east=this};Node.prototype.linkSouth=function(a){this.south=a;a.north=this};Node.prototype.linkHide=function(a){this.hide=a;a.rebase=this};Node.prototype.linkTeleport=function(a){this.teleport=a};var deathQ;var deathTexture;var deathText;var deathDuration;var deathProgram;var deathVbo;var deathUniTex;function deathInit(){deathQ=[];deathDuration=0;var a=new Float32Array([0,0,0,1,1,0,1,1,0,1,0,0,1,1,1,0]);deathVbo=gl.createBuffer();gl.bindBuffer(gl.ARRAY_BUFFER,deathVbo);gl.bufferData(gl.ARRAY_BUFFER,a,gl.STATIC_DRAW);deathProgram=new esProgram(gl);deathProgram.addShaderId("death-fs",ES_FRAGMENT);deathProgram.addShaderId("death-vs",ES_VERTEX);deathProgram.bindAttribute(0,"pos");deathProgram.link();deathProgram.use();deathUniTex=deathProgram.getUniform("tex");gl.uniform1i(deathUniTex,0)}function deathReborn(){avatarInit(nodePlayerStart);aiRespawnWave()}function deathQueue(a,d,c,b){deathQ.push([a,d,c])}function deathFrame(d){if(deathDuration<=0){if(deathQ.length<=0){modePlay()}else{var a=deathQ.shift();deathTexture=a[0];deathText=a[1];deathDuration=a[2];var c=a[3]}}deathProgram.use();gl.bindTexture(gl.TEXTURE_2D,deathTexture);gl.enableVertexAttribArray(0);gl.bindBuffer(gl.ARRAY_BUFFER,deathVbo);gl.vertexAttribPointer(0,4,gl.FLOAT,false,0,0);gl.drawArrays(gl.TRIANGLE_STRIP,0,4);gl.disableVertexAttribArray(0);var b=256-((deathText.length/2)-0.5)*32;spriteAddText(b,400,32,deathText);deathDuration-=d}function playFrame(a){bgRenderPre();nodeRender();avatarFrame(a);aiFrame(a);bgRenderPost()};

diff --git a/www/game.js b/www/game.js
@@ -32,7 +32,7 @@ function bgInit() {
 	gl.uniform1i(uniTex, 0);
 }
 
-function bgRender() {
+function bgRenderPre() {
 	bgProgram.use();
 	gl.bindTexture(gl.TEXTURE_2D, texBg);
 	gl.enableVertexAttribArray(0);
@@ -40,6 +40,11 @@ function bgRender() {
 	gl.vertexAttribPointer(0, 4, gl.FLOAT, false, 0, 0);
 	gl.drawArrays(gl.TRIANGLE_STRIP, 0, 4);
 	gl.disableVertexAttribArray(0);
+}
+
+function bgRenderPost() {
+	spriteAdd(95, 63, 32, SP_BRUSH0);
+	spriteAdd(130, 69, 32, SP_BRUSH0);
 }
 
 var gl;
@@ -127,9 +132,11 @@ function mouseEvent(event) {
 
 	var canvas = document.getElementById('can');
 	var rect = canvas.getBoundingClientRect();
-	avatarSetMouse(
-			event.clientX - rect.x,
-			event.clientY - rect.y);
+
+	var x = event.clientX - rect.x;
+	var y = event.clientY - rect.y;
+	console.log(event, rect, x, y);
+	avatarSetMouse(x, y);
 }
 
 function modePlay() {
@@ -522,6 +529,8 @@ var SP_ICON_HIDE = [4, 0];
 var SP_ICON_HIDE_ATTACK = [5, 0];
 var SP_ICON_TELEPORT = [6, 0];
 var SP_ICON_KNIFE = [7, 0];
+
+var SP_BRUSH0 = [0, 11];
 
 var SP_PLAYER = [0, 1];
 var SP_AI_RED = [0, 2];
@@ -948,11 +957,13 @@ function deathFrame(ft) {
 }
 
 function playFrame(ft) {
-	bgRender();
+	bgRenderPre();
 
 	nodeRender();
 
 	avatarFrame(ft);
 	aiFrame(ft);
+
+	bgRenderPost();
 }
 

diff --git a/js/bg.js b/js/bg.js
@@ -32,7 +32,7 @@ function bgInit() {
 	gl.uniform1i(uniTex, 0);
 }
 
-function bgRender() {
+function bgRenderPre() {
 	bgProgram.use();
 	gl.bindTexture(gl.TEXTURE_2D, texBg);
 	gl.enableVertexAttribArray(0);
@@ -40,5 +40,10 @@ function bgRender() {
 	gl.vertexAttribPointer(0, 4, gl.FLOAT, false, 0, 0);
 	gl.drawArrays(gl.TRIANGLE_STRIP, 0, 4);
 	gl.disableVertexAttribArray(0);
+}
+
+function bgRenderPost() {
+	spriteAdd(95, 63, 32, SP_BRUSH0);
+	spriteAdd(130, 69, 32, SP_BRUSH0);
 }
 

diff --git a/js/main.js b/js/main.js
@@ -83,9 +83,11 @@ function mouseEvent(event) {
 
 	var canvas = document.getElementById('can');
 	var rect = canvas.getBoundingClientRect();
-	avatarSetMouse(
-			event.clientX - rect.x,
-			event.clientY - rect.y);
+
+	var x = event.clientX - rect.x;
+	var y = event.clientY - rect.y;
+	console.log(event, rect, x, y);
+	avatarSetMouse(x, y);
 }
 
 function modePlay() {

diff --git a/js/sprites.js b/js/sprites.js
@@ -21,6 +21,8 @@ var SP_ICON_HIDE_ATTACK = [5, 0];
 var SP_ICON_TELEPORT = [6, 0];
 var SP_ICON_KNIFE = [7, 0];
 
+var SP_BRUSH0 = [0, 11];
+
 var SP_PLAYER = [0, 1];
 var SP_AI_RED = [0, 2];
 

diff --git a/js/play.js b/js/play.js
@@ -1,9 +1,11 @@
 function playFrame(ft) {
-	bgRender();
+	bgRenderPre();
 
 	nodeRender();
 
 	avatarFrame(ft);
 	aiFrame(ft);
+
+	bgRenderPost();
 }
 
